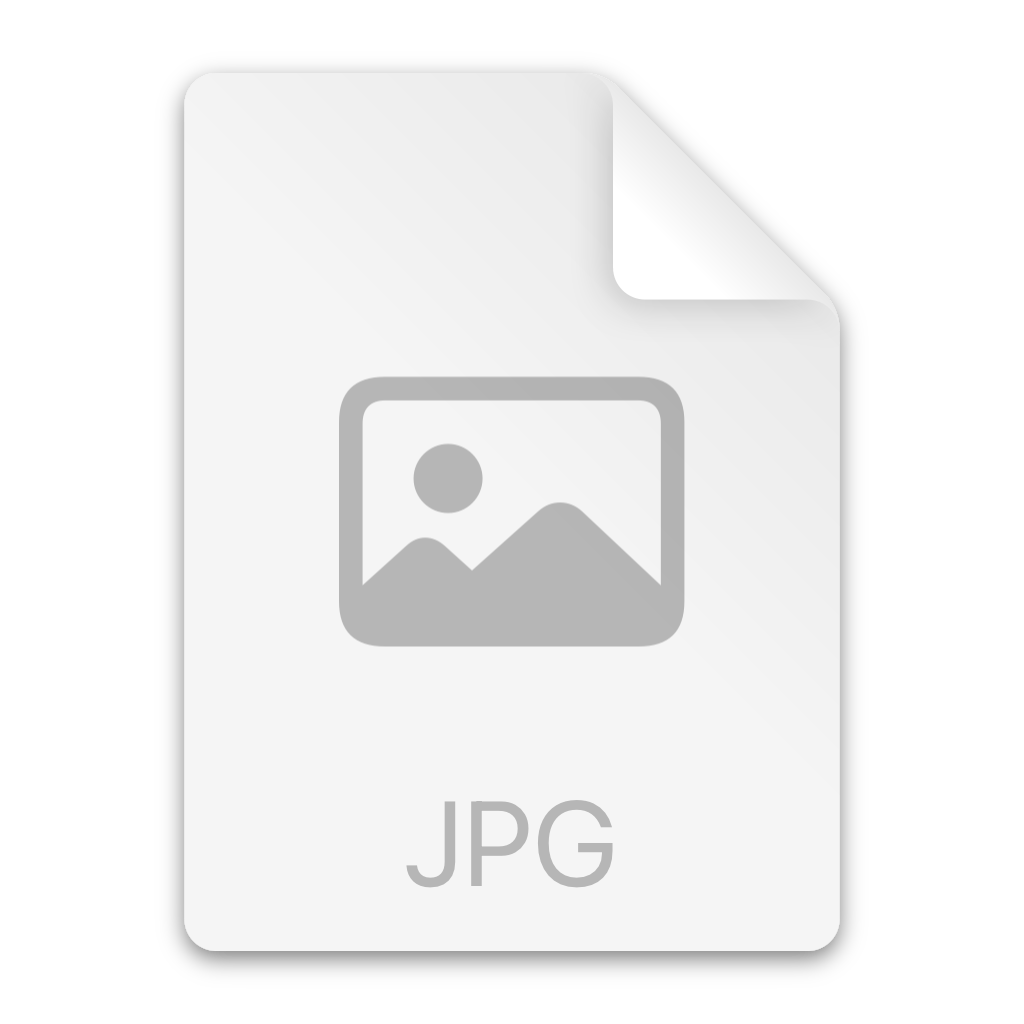
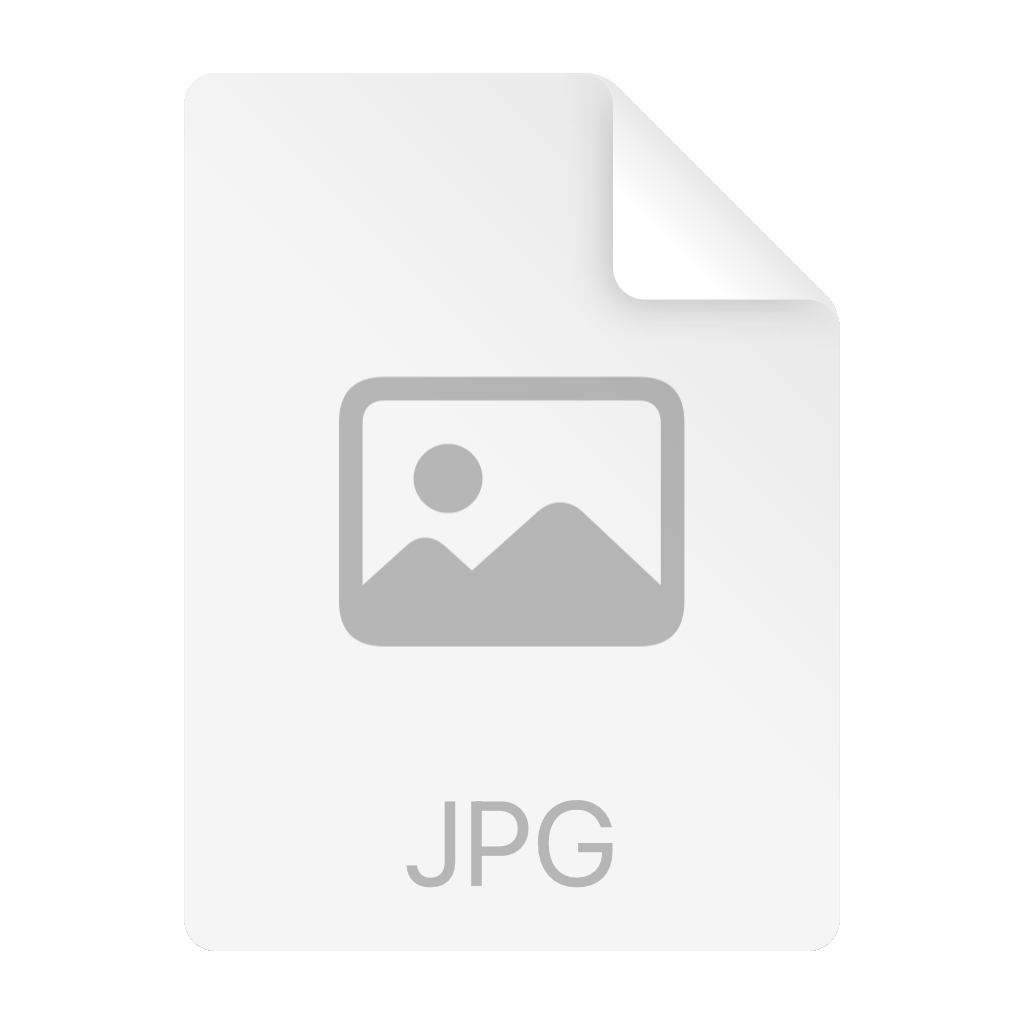
Fix README header image visibility

diff --git a/README.md b/README.md
@@ -1,5 +1,5 @@
 <p align="center">
-  <img src="docs/header.png" alt="Outerloop" width="480" />
+  <img src="https://raw.githubusercontent.com/cobusgreyling/outerloop/main/docs/header.png" alt="Outerloop" width="480" />
 </p>
 
 # outerloop